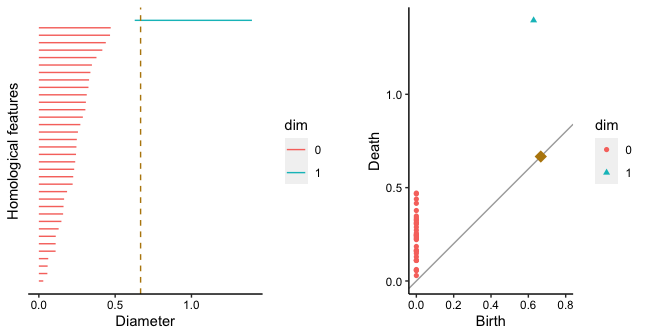
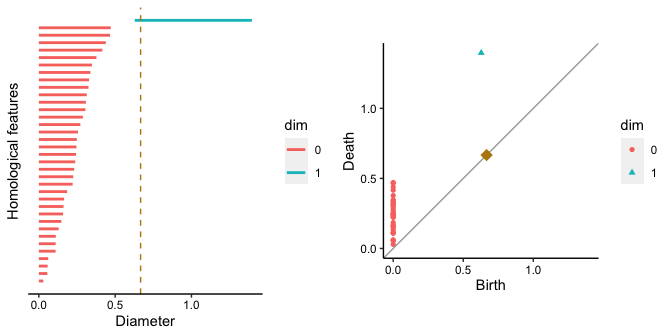
doc(readme): thicken barcode lines & force square persistence diagram

diff --git a/README.md b/README.md
@@ -131,16 +131,17 @@ persistence diagram plot, the diamond point marks this cutoff.
 p_bc <- ggplot(ph,
        aes(start = birth, end = death, colour = dim)) +
   theme_barcode() +
-  geom_barcode() +
+  geom_barcode(size = 1) +
   labs(x = "Diameter", y = "Homological features") +
   geom_vline(xintercept = prox, color = "darkgoldenrod", linetype = "dashed")
+max_prox <- max(ph$death)
 p_pd <- ggplot(ph) +
   theme_persist() +
   coord_fixed() +
   stat_persistence(aes(start = birth, end = death, colour = dim, shape = dim)) +
   geom_abline(intercept = 0, slope = 1, color = "darkgray") +
   labs(x = "Birth", y = "Death") +
-  lims(x = c(0, 0.8), y = c(0, NA)) +
+  lims(x = c(0, max_prox), y = c(0, max_prox)) +
   geom_point(data = data.frame(x = prox), aes(x, x),
              colour = "darkgoldenrod", shape = "diamond", size = 4)
 # combine the plots
